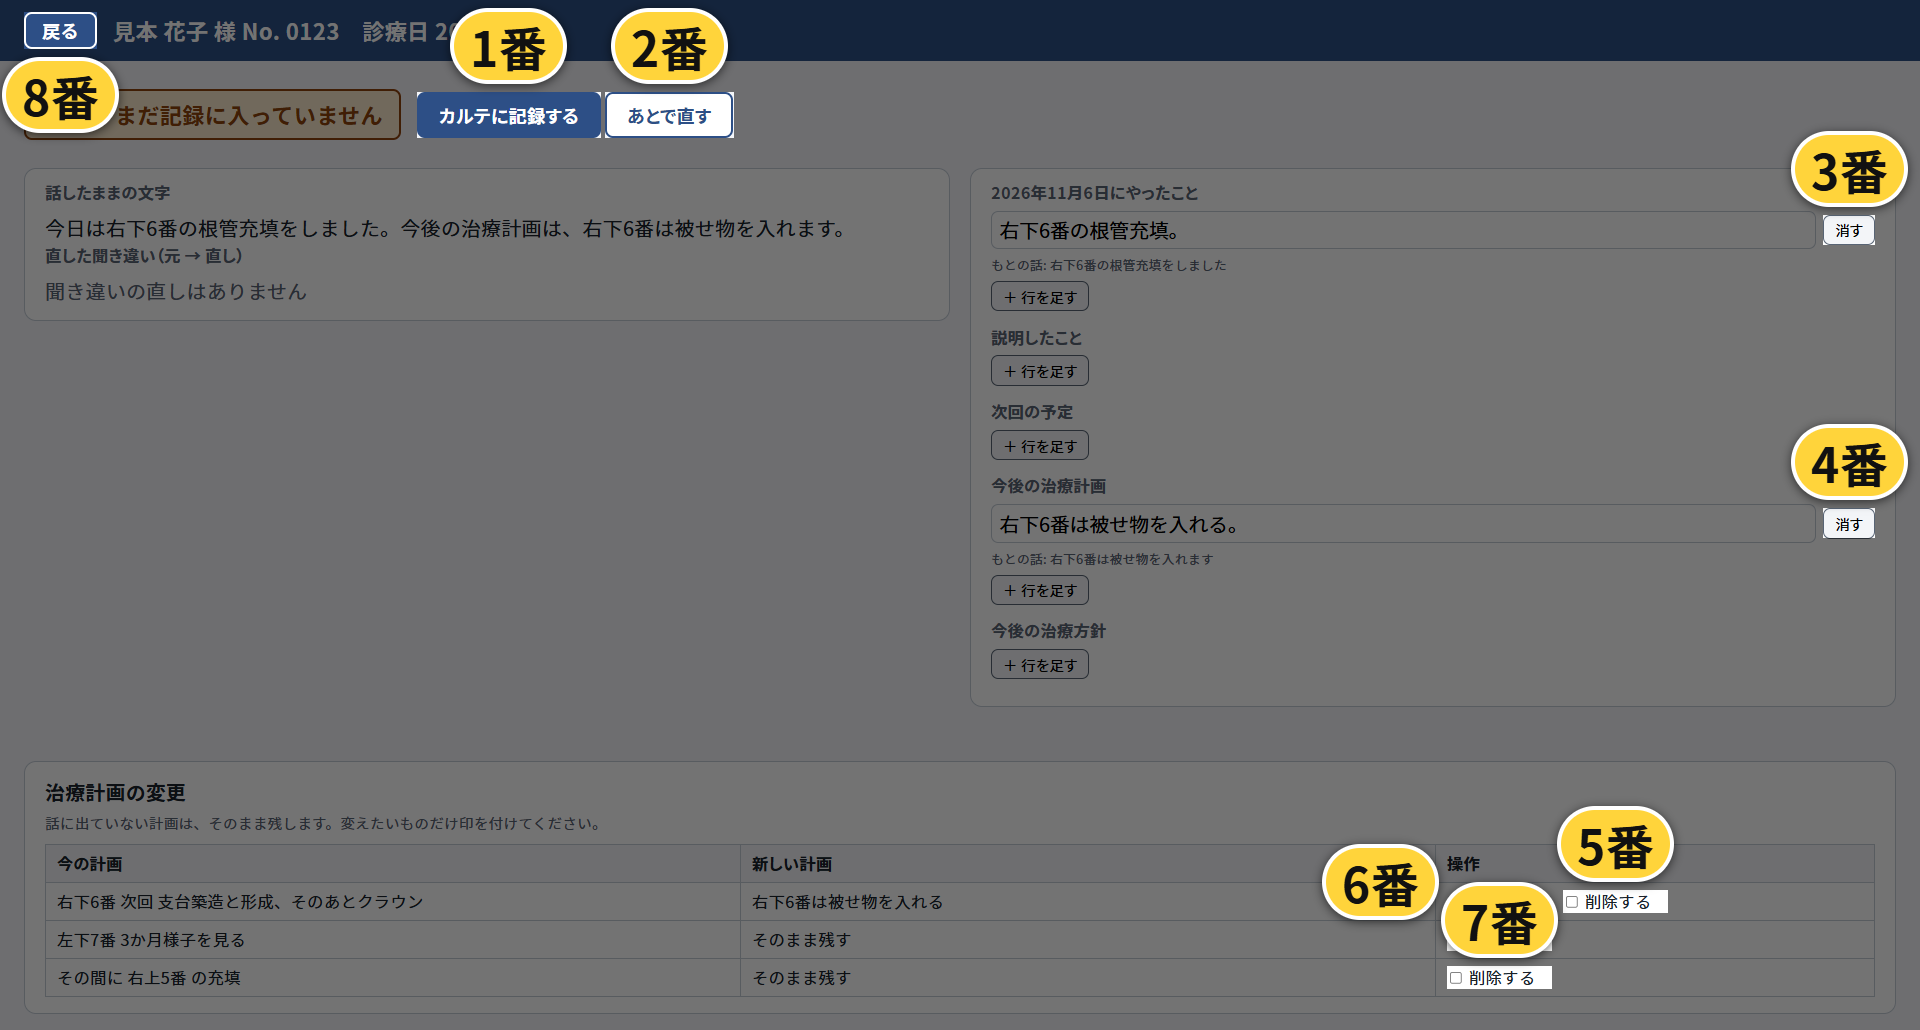
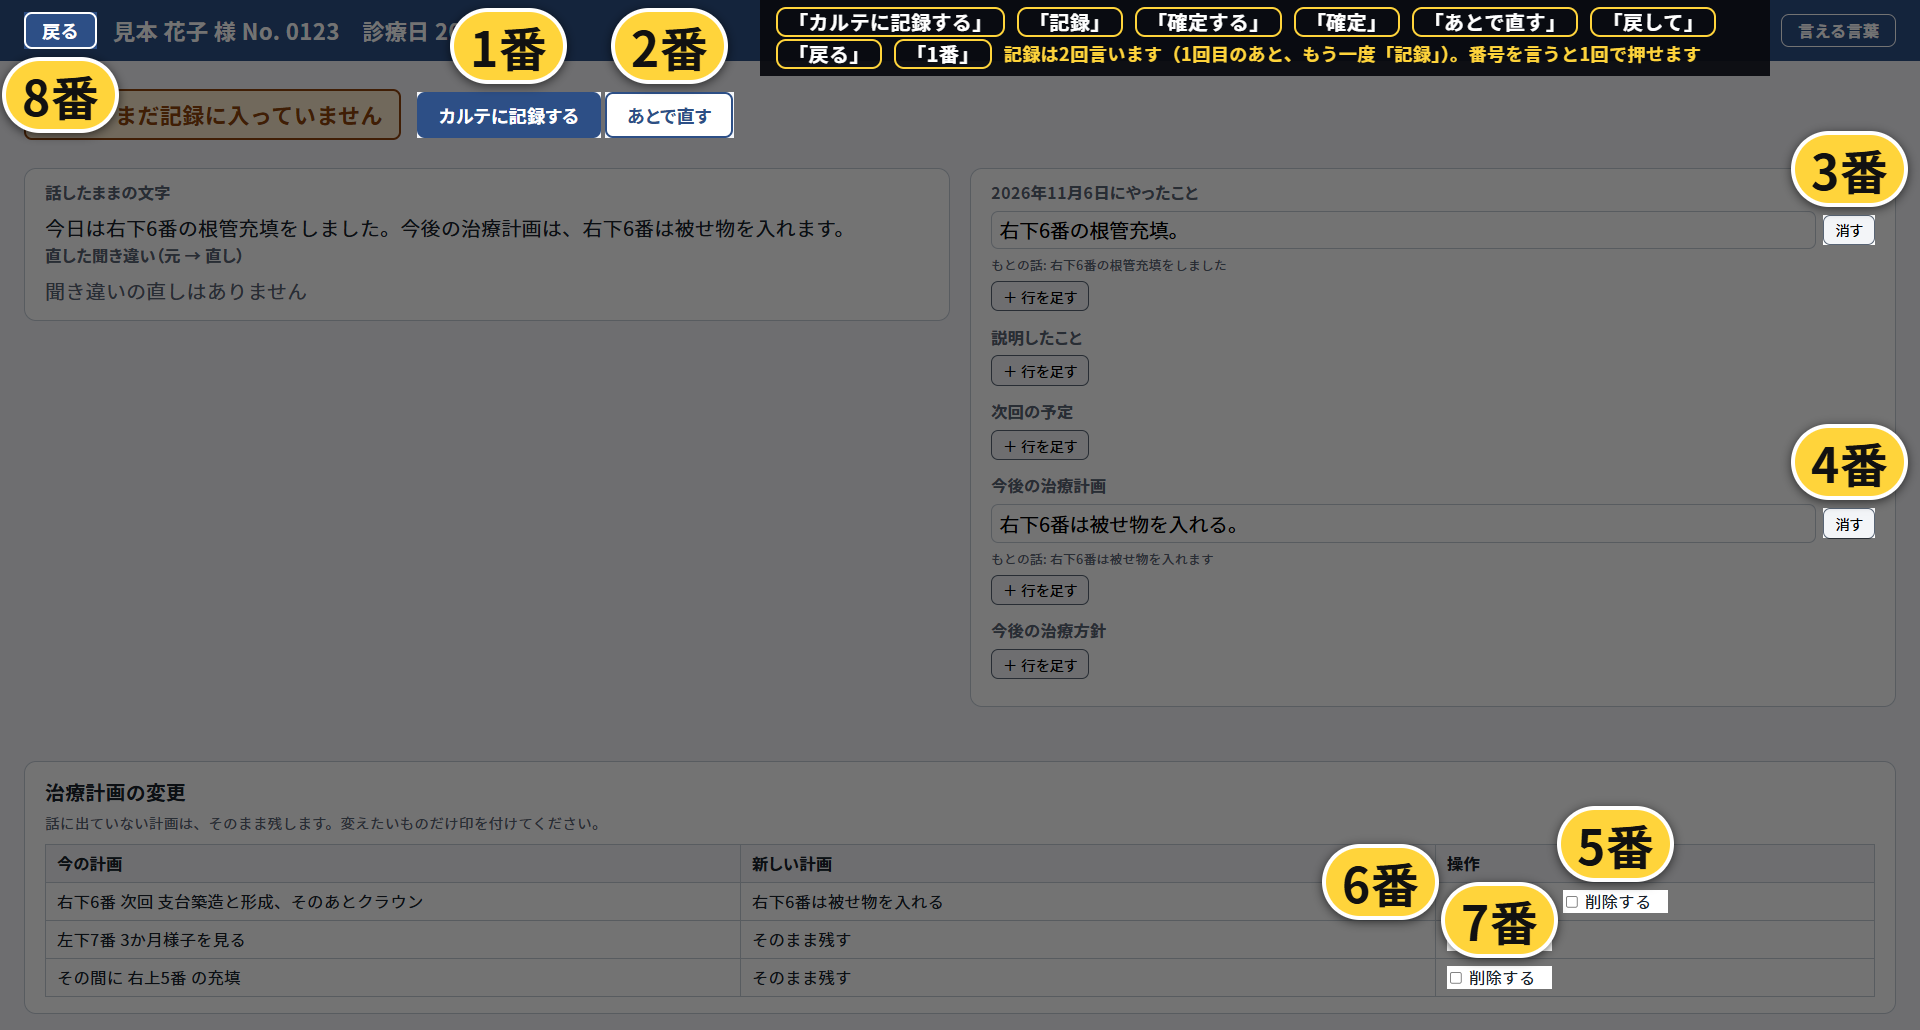
G19g追記: 下書きの画面にも言える言葉の黒い帯（ボタン2と言える言葉ボタン）

Changed region(s): [[0.375, 0.0, 0.9688, 0.0932]]

diff --git a/app/static/js/draft.js b/app/static/js/draft.js
@@ -1,5 +1,6 @@
 // 下書きの画面。5つの項目をキーボードで直し（直した所はその場で自動で保存する）、「カルテに記録する」か「あとで直す」で、来た画面へ戻る。
 // 記録するまで診療メモにも治療計画にも入らない。
+// 言える言葉は黒い帯（ボタン2か「言える言葉」ボタン）に出ているものだけ。出ていない言葉で動くものは作らない。
 // 声（ボタン2）か文字（window.cvTyped）で「カルテに記録する」（または「確定する」）と言ったあと、もう一度「記録」（または「確定」）と言うと記録する。
 // ボタン2を押すと番号の札が出て、番号で押せる（マウスと同じ動き）。「戻して」は戻る。
 (function () {
@@ -162,6 +163,7 @@
       .catch(function (e) { say(e.message); });
   }
   var b;
+  if ((b = document.getElementById("btn-say"))) b.addEventListener("click", function () { if (document.body.dataset.numbers) hideNumbers(); else showNumbers(); });
   if ((b = document.getElementById("btn-confirm"))) b.addEventListener("click", doConfirm);
   if ((b = document.getElementById("btn-later"))) b.addEventListener("click", later);
   if ((b = document.getElementById("btn-back"))) b.addEventListener("click", function (e) { e.preventDefault(); leave(); });
@@ -210,16 +212,34 @@
     body.dataset.numHidden = hidden;
     return out;
   }
+  // 「言える言葉」の黒い帯（声の窓と同じ見た目。中身は config/examples.json の draft。この画面で本当に動く言葉だけ）
+  function showBand() {
+    hideBand();
+    fetch("/voice/examples", { cache: "no-store" }).then(function (r) { return r.json(); }).then(function (ex) {
+      if (!document.body.dataset.numbers || document.getElementById("num-band")) return;
+      var sc = ex.draft || { words: [] };
+      var band = document.createElement("div");
+      band.id = "num-band";
+      band.dataset.screen = "draft";
+      band.style.cssText = "left:760px;right:150px;height:76px;flex-wrap:wrap;align-content:center;padding:2px 16px;gap:2px 12px"; // 上の段の右側。ボタンと札をふさがない
+      sc.words.forEach(function (w) { var c = document.createElement("span"); c.className = "ex-chip"; c.textContent = "「" + w + "」"; band.appendChild(c); });
+      if (sc.message) { var m = document.createElement("span"); m.className = "ex-msg"; m.textContent = sc.message; band.appendChild(m); }
+      document.body.appendChild(band);
+    }).catch(function () { /* 帯が出せなくても番号は使える */ });
+  }
+  function hideBand() { var b = document.getElementById("num-band"); if (b) b.remove(); }
   function showNumbers() {
     window.CVNumTags.clear();
+    hideBand();
     var list = numberList();
     if (!list.length) return;
     window.CVNumTags.dimWithHoles(list);
     window.CVNumTags.addBadges(list);
     body.dataset.numbers = "1";
+    showBand();
   }
-  function hideNumbers() { window.CVNumTags.clear(); delete body.dataset.numbers; }
-  function takeNumbers() { var m = window.CVNumTags.take(); delete body.dataset.numbers; return m; }
+  function hideNumbers() { window.CVNumTags.clear(); hideBand(); delete body.dataset.numbers; }
+  function takeNumbers() { var m = window.CVNumTags.take(); hideBand(); delete body.dataset.numbers; return m; }
   function callNumber(n, shown, text) {
     var key = shown && shown[n], el = key && targets[key];
     if (!shown) { say("「" + text + "」 番号は出ていません。" + HINT); return "no-numbers"; }

diff --git a/app/static/js/numtags.js b/app/static/js/numtags.js
@@ -6,7 +6,11 @@
     "#num-dim{position:fixed;left:0;top:0;right:0;bottom:0;z-index:30;background:rgba(0,0,0,.55);pointer-events:none}" +
     ".num-badge{position:fixed;z-index:35;height:76px;padding:0 16px;border-radius:38px;box-sizing:border-box;white-space:nowrap;" +
     "background:#ffd43b;color:#111;border:4px solid #fff;box-shadow:0 2px 10px rgba(0,0,0,.6);" +
-    "font-size:48px;font-weight:800;line-height:68px;text-align:center;pointer-events:none}";
+    "font-size:48px;font-weight:800;line-height:68px;text-align:center;pointer-events:none}" +
+    "#num-band{position:fixed;z-index:36;left:0;top:0;right:0;box-sizing:border-box;display:flex;align-items:center;gap:20px;padding:0 24px;background:rgba(8,10,14,.94);pointer-events:none;overflow:hidden}" +
+    ".ex-chip{color:#fff;font-size:30px;font-weight:700;white-space:nowrap;border:2px solid #ffd43b;border-radius:10px;padding:2px 16px;line-height:1.3}" +
+    ".ex-msg{color:#ffd43b;font-size:28px;font-weight:700}" +
+    "#num-band[data-screen=draft] .ex-chip{font-size:20px;padding:0 10px;border-width:2px}#num-band[data-screen=draft] .ex-msg{font-size:18px}";
   document.head.appendChild(style);
 
   function inView(el) {

diff --git a/app/static/js/actions/voice.js b/app/static/js/actions/voice.js
@@ -19,9 +19,6 @@
     "body[data-numbers] [data-action=phone]{position:relative;z-index:31}" + // 暗い幕より前に出して、明るく見せる
     "#num-questions{position:fixed;z-index:35;left:0;right:0;bottom:36px;display:flex;justify-content:center;gap:20px;pointer-events:none}" +
     ".q-btn{background:#fff;color:#111;border:3px solid #ffd43b;border-radius:14px;padding:12px 26px;font-size:32px;font-weight:700}" +
-    "#num-band{position:fixed;z-index:36;left:0;top:0;right:0;box-sizing:border-box;display:flex;align-items:center;gap:20px;padding:0 24px;background:rgba(8,10,14,.94);pointer-events:none;overflow:hidden}" +
-    ".ex-chip{color:#fff;font-size:30px;font-weight:700;white-space:nowrap;border:2px solid #ffd43b;border-radius:10px;padding:2px 16px;line-height:1.3}" +
-    ".ex-msg{color:#ffd43b;font-size:28px;font-weight:700}" +
     ".say-list-body h3{margin:14px 0 4px;font-size:22px}.say-list-body ul{margin:0 0 6px;padding-left:28px;font-size:22px;line-height:1.5}" +
     "body[data-numbers] .ph .no{display:none}";
   document.head.appendChild(style);

diff --git a/app/static/css/rec.css b/app/static/css/rec.css
@@ -79,6 +79,8 @@ table.rtab .st-転送待ち { color: var(--c-warn); font-weight: var(--fw-bold);
 
 .rec-head a.back { font-size: var(--fs-3); font-weight: var(--fw-bold); padding: var(--sp-1) var(--sp-4); border: 2px solid var(--c-surface);
   border-radius: var(--r-s); text-decoration: none; }
+.rec-head .say-btn { margin-left: auto; font: inherit; font-size: var(--fs-2); color: var(--c-surface); background: transparent;
+  border: 1px solid var(--c-surface); border-radius: var(--r-s); padding: var(--sp-1) var(--sp-4); cursor: pointer; }
 .fx-title { margin-top: var(--sp-5); }
 .fixes { margin: 0; padding-left: var(--sp-6); }
 .fixes li { font-size: var(--fs-3); line-height: var(--lh-table); }

diff --git a/tests/test_g19g.py b/tests/test_g19g.py
@@ -186,3 +186,69 @@ def test_old_word_confirm_still_works_alone_after_arming(server, browser):  # no
     pg.wait_for_url(home(server))
     assert db_one("SELECT status FROM drafts WHERE id = ?", s["draft_id"])[0] == "confirmed"
     pg.close()
+
+
+# ---- 追記: 下書きの画面にも「言える言葉」の黒い画面 ----
+
+def band_words(pg):
+    pg.wait_for_selector("#num-band")
+    return [t.strip("「」") for t in pg.locator("#num-band .ex-chip").all_inner_texts()]
+
+
+def test_button2_shows_dark_band_with_words(server, browser):  # noqa: F811
+    s = make_rec(server)
+    pg = open_ready(browser, server, s)
+    pg.evaluate("window.cvNumbers(true)")
+    words = band_words(pg)
+    for w in ("カルテに記録する", "記録", "あとで直す", "戻して", "戻る", "確定する", "確定"):
+        assert w in words
+    assert any(w.endswith("番") for w in words)
+    assert "2回言います" in pg.inner_text("#num-band .ex-msg")
+    # 黒い帯は、番号の札やボタンをふさがない（下に出る）
+    band = pg.locator("#num-band").bounding_box()
+    assert band["y"] < 10 and band["height"] <= 80 and band["x"] > 700  # 上の段の右側。下の表のボタンも、左の札もふさがない
+    assert pg.evaluate("getComputedStyle(document.getElementById('num-band')).backgroundColor") .startswith("rgba(8, 10, 14")
+    pg.screenshot(path=str(Path(__file__).resolve().parents[1] / "docs" / "画面" / "G19g_band.png"))
+    pg.evaluate("window.cvNumbers(false)")
+    assert pg.locator("#num-band").count() == 0
+    pg.close()
+
+
+def test_say_button_toggles_the_band(server, browser):  # noqa: F811
+    s = make_rec(server)
+    pg = open_ready(browser, server, s)
+    pg.click("#btn-say")
+    assert band_words(pg) and pg.locator(".num-badge").count() > 0
+    pg.click("#btn-say")
+    assert pg.locator("#num-band").count() == 0 and pg.locator(".num-badge").count() == 0
+    pg.close()
+
+
+def test_every_word_in_the_band_really_works(server, browser):  # noqa: F811
+    """帯に出ている言葉は、どれも「使えません」にならない。帯に無い言葉で動くものは残さない（確かめられる範囲）。"""
+    s = make_rec(server)
+    pg = open_ready(browser, server, s)
+    pg.evaluate("window.cvNumbers(true)")
+    words = band_words(pg)
+    pg.close()
+    for w in words:
+        if w in ("カルテに記録する", "確定する", "記録", "確定", "あとで直す", "戻して", "戻る") or w.endswith("番"):
+            continue
+        raise AssertionError("帯に、試験で確かめていない言葉がある: " + w)
+    for w in ("カルテに記録する", "確定する"):
+        pg = open_ready(browser, server, s)
+        assert pg.evaluate("t => window.cvTyped(t)", w) == "armed"
+        pg.close()
+    pg = open_ready(browser, server, s)
+    assert pg.evaluate("t => window.cvTyped(t)", "記録") == "need-first"  # 1回目なしでは動かない（言葉として受けている）
+    assert pg.evaluate("t => window.cvTyped(t)", "あとで直す") == "later"
+    pg.close()
+    pg = open_ready(browser, server, s)
+    for w in ("戻して", "戻る"):
+        assert pg.evaluate("t => window.cvTyped(t)", w) == "back"
+        pg.wait_for_url(home(server))
+        pg = open_ready(browser, server, s)
+    pg.evaluate("window.cvNumbers(true)")
+    assert pg.evaluate("t => window.cvTyped(t)", "1番") == "number:confirm"  # 番号は1回で押せる
+    pg.wait_for_url(home(server))
+    pg.close()

diff --git a/app/routers/recordings.py b/app/routers/recordings.py
@@ -216,7 +216,8 @@ def _draft_html(d, p, v, rec, fix, back="/"):
         f"</head><body class='rec-page' data-page='draft' data-draft-id='{d['id']}' data-rec-id='{rec_id}' "
         f"data-status='{d['status']}' data-rec-state='{h(state)}' data-fix='{1 if fix else 0}' data-back='{h(back, quote=True)}'>"
         f"<header class='rec-head'><a id='btn-back' class='back' href='{h(back, quote=True)}'>戻る</a>"
-        f"<span>{h(p['name'])} 様 No. {h(p['chart_no'])}　診療日 {h(v['visit_date'])}</span></header>"
+        f"<span>{h(p['name'])} 様 No. {h(p['chart_no'])}　診療日 {h(v['visit_date'])}</span>"
+        + ("" if done else "<button type='button' id='btn-say' class='say-btn'>言える言葉</button>") + "</header>"
         f"<div class='draft-bar'><span class='draft-mark' data-part='draft-mark'>{mark}</span>{bar}"
         "<span id='msg' class='err' role='status'></span></div>"
         f"<div class='draft-cols'><div class='draft-left' data-part='draft-transcript'><h3>話したままの文字</h3>{left}"

diff --git a/docs/制作記録.md b/docs/制作記録.md
@@ -74,3 +74,4 @@
 - 2026-11-04 G18: 撮った写真（C:\hackathon\photos_in の19枚）を入れるよう頼まれた（監査役経由、院長が決めた順番）。scripts/import_photos.py を書き、ファイル名の先頭の番号の順に、「診察券の裏面」の2枚（16・17）は card1.jpg・card2.jpg、残り17枚は photo01〜17.jpg にした。向きを直し、長い辺を1600pxまでにして、位置情報などの付いた情報（Exif・GPS・XMP）を付けずに JPEG で書き直す（もとの写真は触らない）。photos.json は photos 17件と cards 2件に直し、前の架空の絵12枚と make_photos.py は外した。見本 花子様の写真の行を12→17（13〜17番は最後の撮影日2026年8月7日、行の id は他の患者様の後ろ。update_db.py で既存の DB にも足される）。ほかの患者様は今までどおり番号を一覧に折り返して使う（絵はこの17枚の中から）。受付の画面の「診察券 裏面」に2枚を縦に並べて出し、次回の予約の文は下に残した。試験 tests/test_g18.py 7件（位置情報なし・1600px以内・汚れた写真を通しても残らない・「3番を拡大して」が photo03・17番・受付に2枚・seed.py を2回動かしても写真と番号が同じ）、古い試験の12枚・png を17枚・jpg に直した。
 - 2026-11-04 G18b: 人の口の写真は使わない決まり（院長決定）になり、photos_in の口の中の写真5枚（1〜5番）が模型の写真に上書きされたので差し替えるよう頼まれた。import_photos.py を同じ手順でもう一度動かし、位置情報なし・長い辺1600px以内を確かめた（変わったのは photo01〜05.jpg の5枚だけ。番号・説明・並びと photos.json は同じ）。seed.py も reset_for_shoot.py（見本へ戻す）も写真の画像に触れず、戻した後も花子様の写真は1〜17番のまま。試験 tests/test_g18b.py 3件（5枚が模型の写真・説明が同じ・「2番を拡大して」が photo02・seed と戻す道具のあとも写真と番号が同じ）。
 - 2026-11-04 G18d: 院長の決定（どの患者様でも同じ写真が出る違和感を、全部の写真に「見本」の札を入れて和らげる）で、photos_in の19枚（写真17・診察券2）が札入りの実写風に置き直されたので、全部入れ直すよう頼まれた（G18c の分もこの中に入るので G18c は行わなかった）。import_photos.py をそのまま動かした（札は足さず、切り抜かない。向きを直して長い辺を1600pxまでにする・位置情報なしは今まで通り。6〜9番は元が800px前後なのでそのまま）。photos.json の番号・説明・並びは同じ。スマホから入れる写真（/photo-up/）は触っていない。19枚とも右下の札が見えるのを目で確かめた。写真は4:3のままで、一覧・拡大の枠も4:3なので札は切れない。試験 tests/test_g18d.py 4件（19枚の中身・4:3・位置情報なし・一覧と拡大の枠の縦横比・7番が photo07・診察券・seed と見本へ戻す道具のあとも同じ）。G18b の試験の1〜5番の指紋を入れ直した分に直した。
+- 2026-11-04 G19g 追記（19:00 院長）: 下書きの画面でも「言える言葉」の黒い画面を出すよう頼まれた。ボタン2（と画面右上の「言える言葉」ボタン）で、番号の札に加えて黒い帯を出す（上の段の右側。見た目は声の窓の帯と同じ CSS を numtags.js へ移して共用）。帯の言葉は config/examples.json の draft（カルテに記録する・記録・確定する・確定・あとで直す・戻して・戻る・1番、2回言う形の説明）。一覧に無い言葉で動くものは作らない。試験: 帯の言葉が実際に動くこと。タグ goal-G19g-r2。

diff --git a/docs/進捗_ai.md b/docs/進捗_ai.md
@@ -7,7 +7,7 @@
   - 聞き違い: Claude は {"from","to"} の一覧だけ返し、置き換えはプログラム。from が話に無い・数字が違う・長過ぎる直しは捨てる。迷う所は直さない。仮歯は TeC に統一（TEK などはルールで直す）
   - 話したままの文字は drafts.transcript、直した文字は fixed_transcript、直しの一覧は fixes。抜き出しの確認は直した文字に対して行う。人が直した文字（fix_off=1）は自動で直さない
   - 項目の文は句読点つき（文末は「。」）
-- 下書きの画面 /drafts/{番号}?back=: ボタンは「カルテに記録する」「あとで直す」だけ。直した所は自動で保存（保存ボタンなし）。押すと来た画面（?back=、診療の画面・録音の一覧・今日の診療一覧）へ戻る。左上「戻る」と声の「戻して」は下書きのまま戻る。G19g: ボタン2で番号の札（numtags.js＝声の窓の札を取り出した共用。カルテに記録する・あとで直す・消す・削除する・整理し直す・戻る）。言葉は「カルテに記録する」→「記録」（または「確定する」→「確定」）、「あとで直す」「戻して」、敬語も可。使えない言葉は「ボタン2で番号を出して選べます」
+- 下書きの画面 /drafts/{番号}?back=: ボタンは「カルテに記録する」「あとで直す」だけ。直した所は自動で保存（保存ボタンなし）。押すと来た画面（?back=、診療の画面・録音の一覧・今日の診療一覧）へ戻る。左上「戻る」と声の「戻して」は下書きのまま戻る。G19g: ボタン2で番号の札（numtags.js＝声の窓の札を取り出した共用。カルテに記録する・あとで直す・消す・削除する・整理し直す・戻る）。言葉は「カルテに記録する」→「記録」（または「確定する」→「確定」）、「あとで直す」「戻して」、敬語も可。「言える言葉」の黒い帯（ボタン2か画面右上の「言える言葉」ボタン。中身は examples.json の draft）に出ている言葉だけが動く。使えない言葉は「ボタン2で番号を出して選べます」
   - 「治療計画の変更」は2つの列の下に全幅。話に出ていない計画は「そのまま残す」（削除は印なし）、新しい計画の「追加する」は印あり。表の名前を .rec から .rtab に変えた（見た目の .rec は右下に固定する録音中の札で、ぶつかっていた）
 - 記録する: 診療メモ（clinical_notes）に入る。変更・削除した古い計画は superseded_on に日付で残す。音声は消す（app/ai/confirm.py）
 - あとで直す: /fix/{録音}（音声・文字・再整理）。次の患者様の前で止める（actions/rec.js）。/today の印「大川内先生 追記必要」（押すと下書き）
